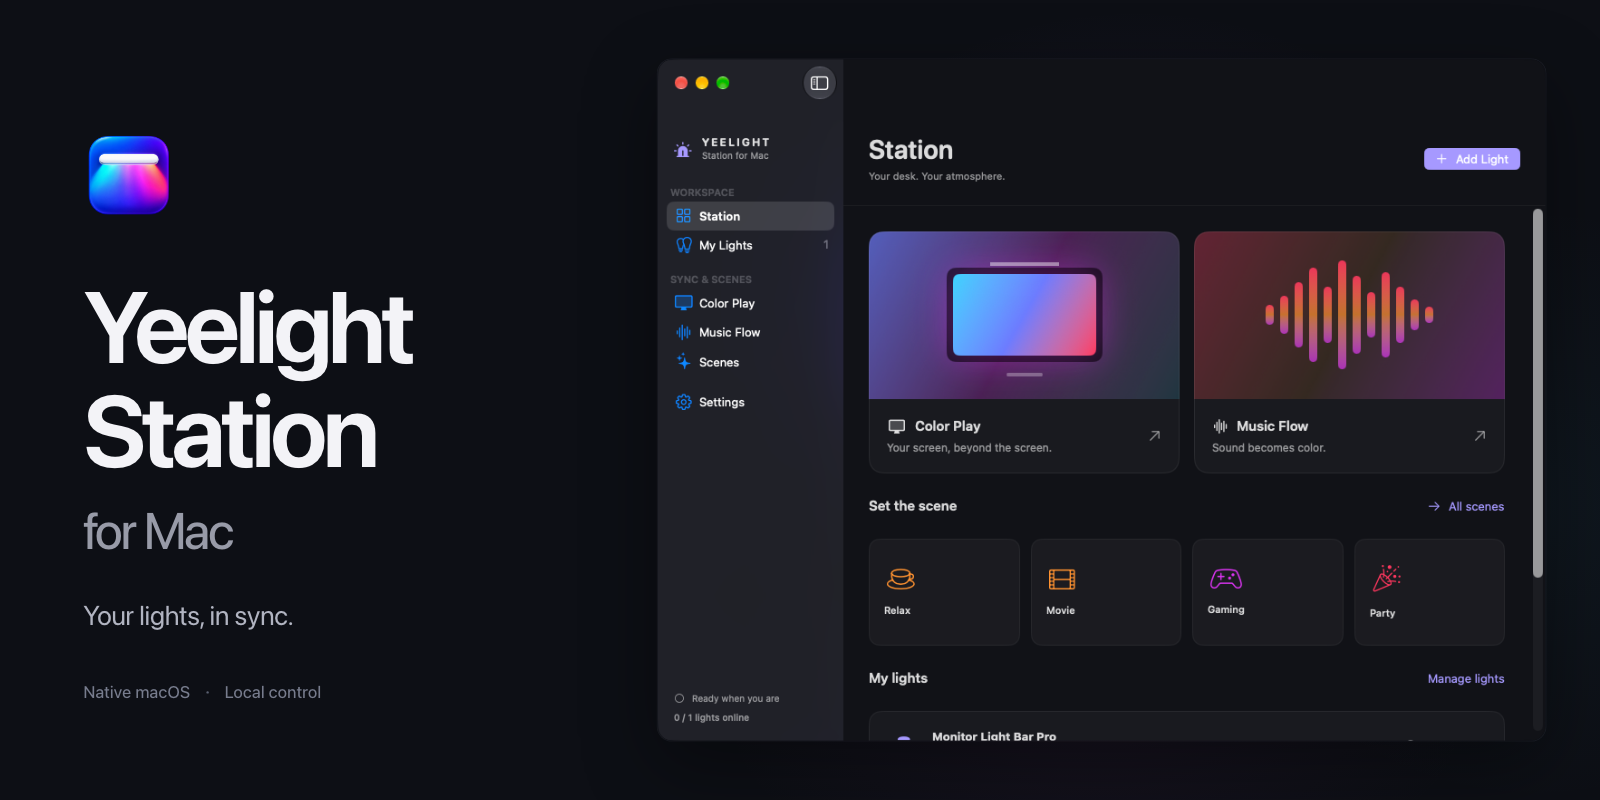
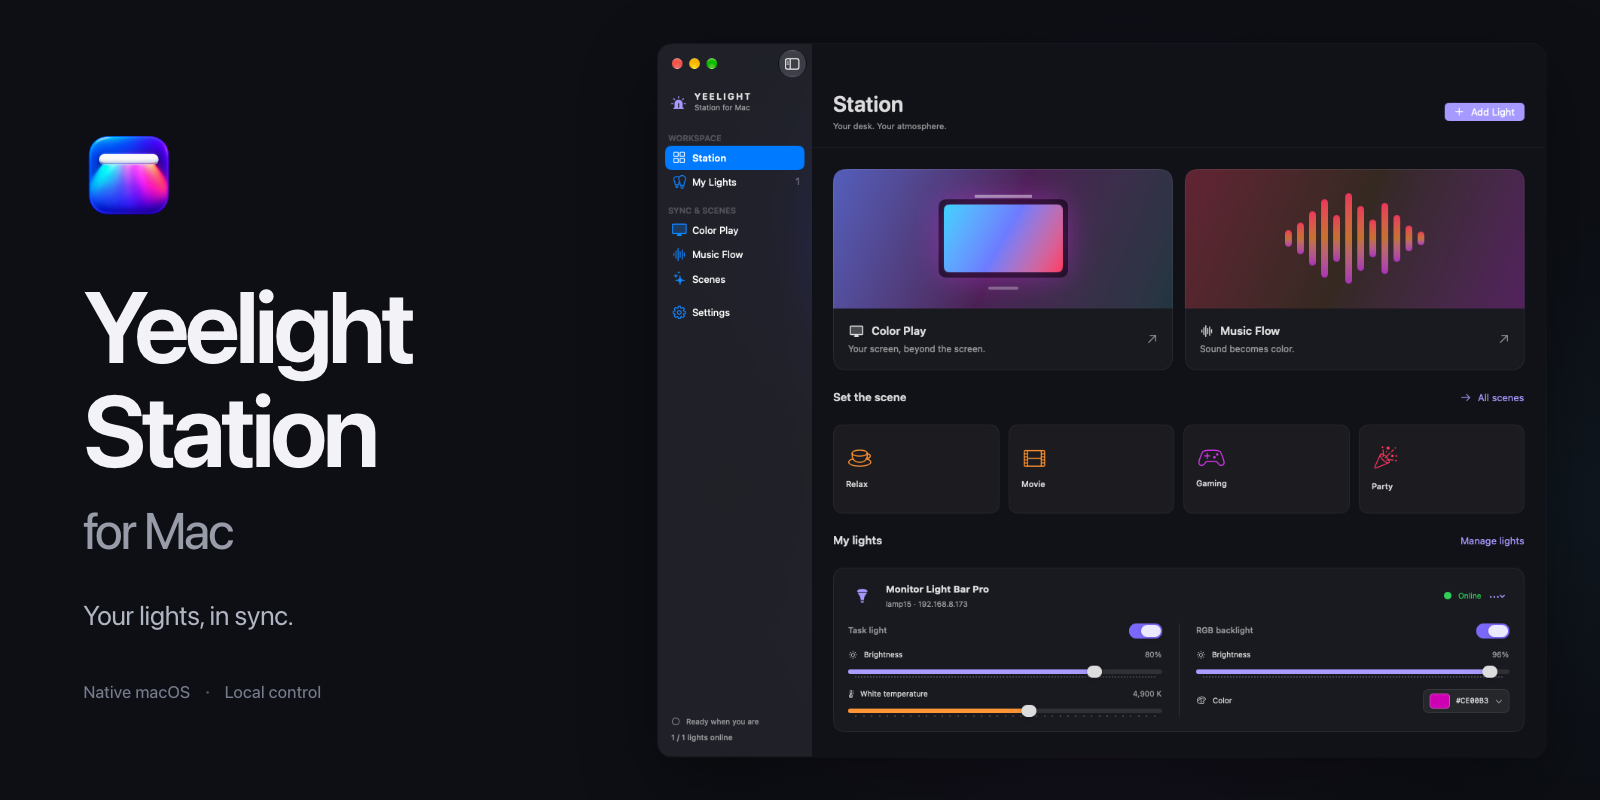
docs(artwork): refresh hero with supplied dashboard screenshot

diff --git a/assets/artwork/readme-banner.html b/assets/artwork/readme-banner.html
@@ -113,7 +113,7 @@
     .station-window {
       position: absolute;
       left: 822px;
-      top: 74px;
+      top: 55px;
       width: 1110px;
       margin: 0;
       border-radius: 18px;

diff --git a/docs/runbooks/artwork.md b/docs/runbooks/artwork.md
@@ -1,6 +1,6 @@
 # App and repository artwork
 
-The README cover is a composition of real native Station window captures, with the new generated app icon and live text. The interface is not generated, repainted, or reconstructed. [Brand and composition data](../../assets/artwork/brand-spec.json) records source images, layout and verification. The user's supplied reference guides composition only; its pixels are not redistributed.
+The README cover uses the user-selected Station dashboard screenshot, with the generated app icon and live text. The interface is not generated, repainted, or reconstructed. [Brand and composition data](../../assets/artwork/brand-spec.json) records source images, layout and verification. The earlier affectUI layout reference guides composition only; its pixels are not redistributed.
 
 ## Assets
 
@@ -8,7 +8,7 @@ The README cover is a composition of real native Station window captures, with t
 | --- | --- |
 | [readme-hero.png](../../assets/readme-hero.png) | 1600 × 800 README cover |
 | [social-preview.png](../../assets/social-preview.png) | 1280 × 640 opaque social card, under 1 MB |
-| [station.png](../../assets/screenshots/station.png) | Actual Station dashboard window, native chrome retained |
+| [station.png](../../assets/screenshots/station.png) | User-selected 1179 × 946 Station dashboard screenshot, copied unchanged |
 | [music-flow.png](../../assets/screenshots/music-flow.png) | Actual user-started Music Flow window, used in the README's expandable screenshot |
 | [app-icon.png](../../assets/app-icon.png) | Unmodified generated 1254 × 1254 RGBA source master |
 | [Station.icns](../../assets/Station.icns) | Ten macOS icon representations for the application bundle |
@@ -19,9 +19,9 @@ The colorful Dock/Finder icon uses a large silver light bar and broad RGB wash. 
 
 ## Capture and render
 
-Capture the actual app window with macOS window capture, for example `screencapture -x -o -l WINDOW_ID output.png`, using the current window ID. Capture only Station, and check the result for unrelated windows or sensitive content. Do not enable screen/audio sync merely to populate a screenshot. The Music Flow capture here records the user's already-running session; the separate dashboard instance performs no control or capture writes.
+Capture the actual app window with macOS window capture, for example `screencapture -x -o -l WINDOW_ID output.png`, using the current window ID. Capture only Station, and check the result for unrelated windows or sensitive content. Do not enable screen/audio sync merely to populate a screenshot. The current dashboard source is the user's supplied screenshot. The earlier Music Flow capture records the user's already-running session; no sync was started to produce repository artwork.
 
-The HTML references the source PNGs with relative paths and can be opened locally. It uses one 2000 × 1000 logical artboard scaled uniformly to the output width. Export the whole stage at 1600 × 800 for the README and 1280 × 640 for the social card. At the README size, the actual dashboard occupies 888 pixels, below its 980-pixel source width. Keep native screenshot chrome and interface pixels intact.
+The HTML references the source PNGs with relative paths and can be opened locally. It uses one 2000 × 1000 logical artboard scaled uniformly to the output width. Export the whole stage at 1600 × 800 for the README and 1280 × 640 for the social card. At the README size, the actual dashboard occupies 888 pixels, below its 1179-pixel source width. Its original aspect ratio and complete interface are retained. The current source is the user-provided `Screenshot 2026-10-24 at 3.27.52 AM.png`; its SHA-256 is recorded in the brand data. Keep native screenshot chrome and interface pixels intact.
 
 The committed exports were produced with `html_preview`. That renderer accepts absolute local image paths, so replace the relative paths in memory before rendering. Check console image-load reports, dimensions and text clipping. The original source remains portable and relative. Screenshot exports are checked visually before replacing the committed PNGs.
 
